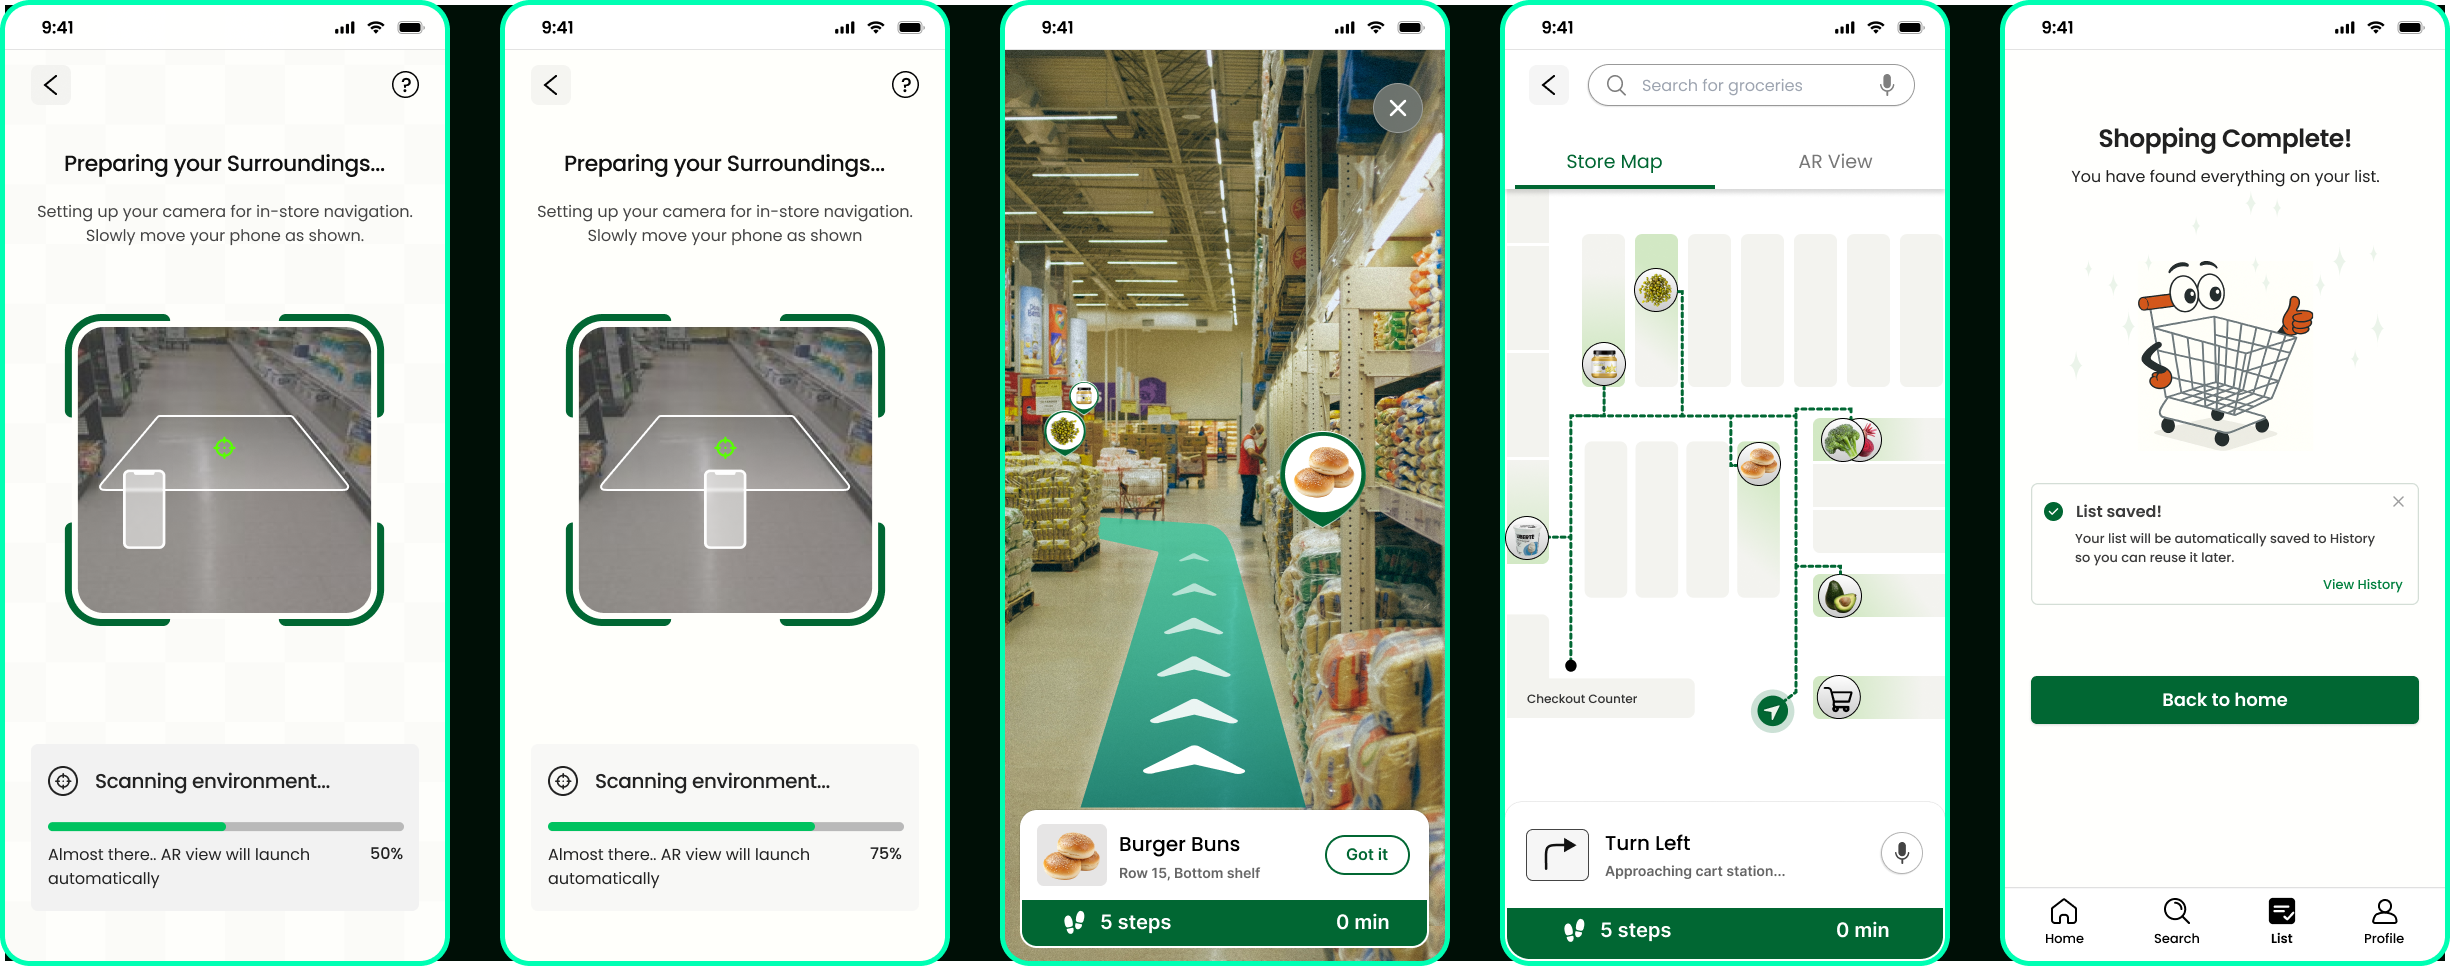
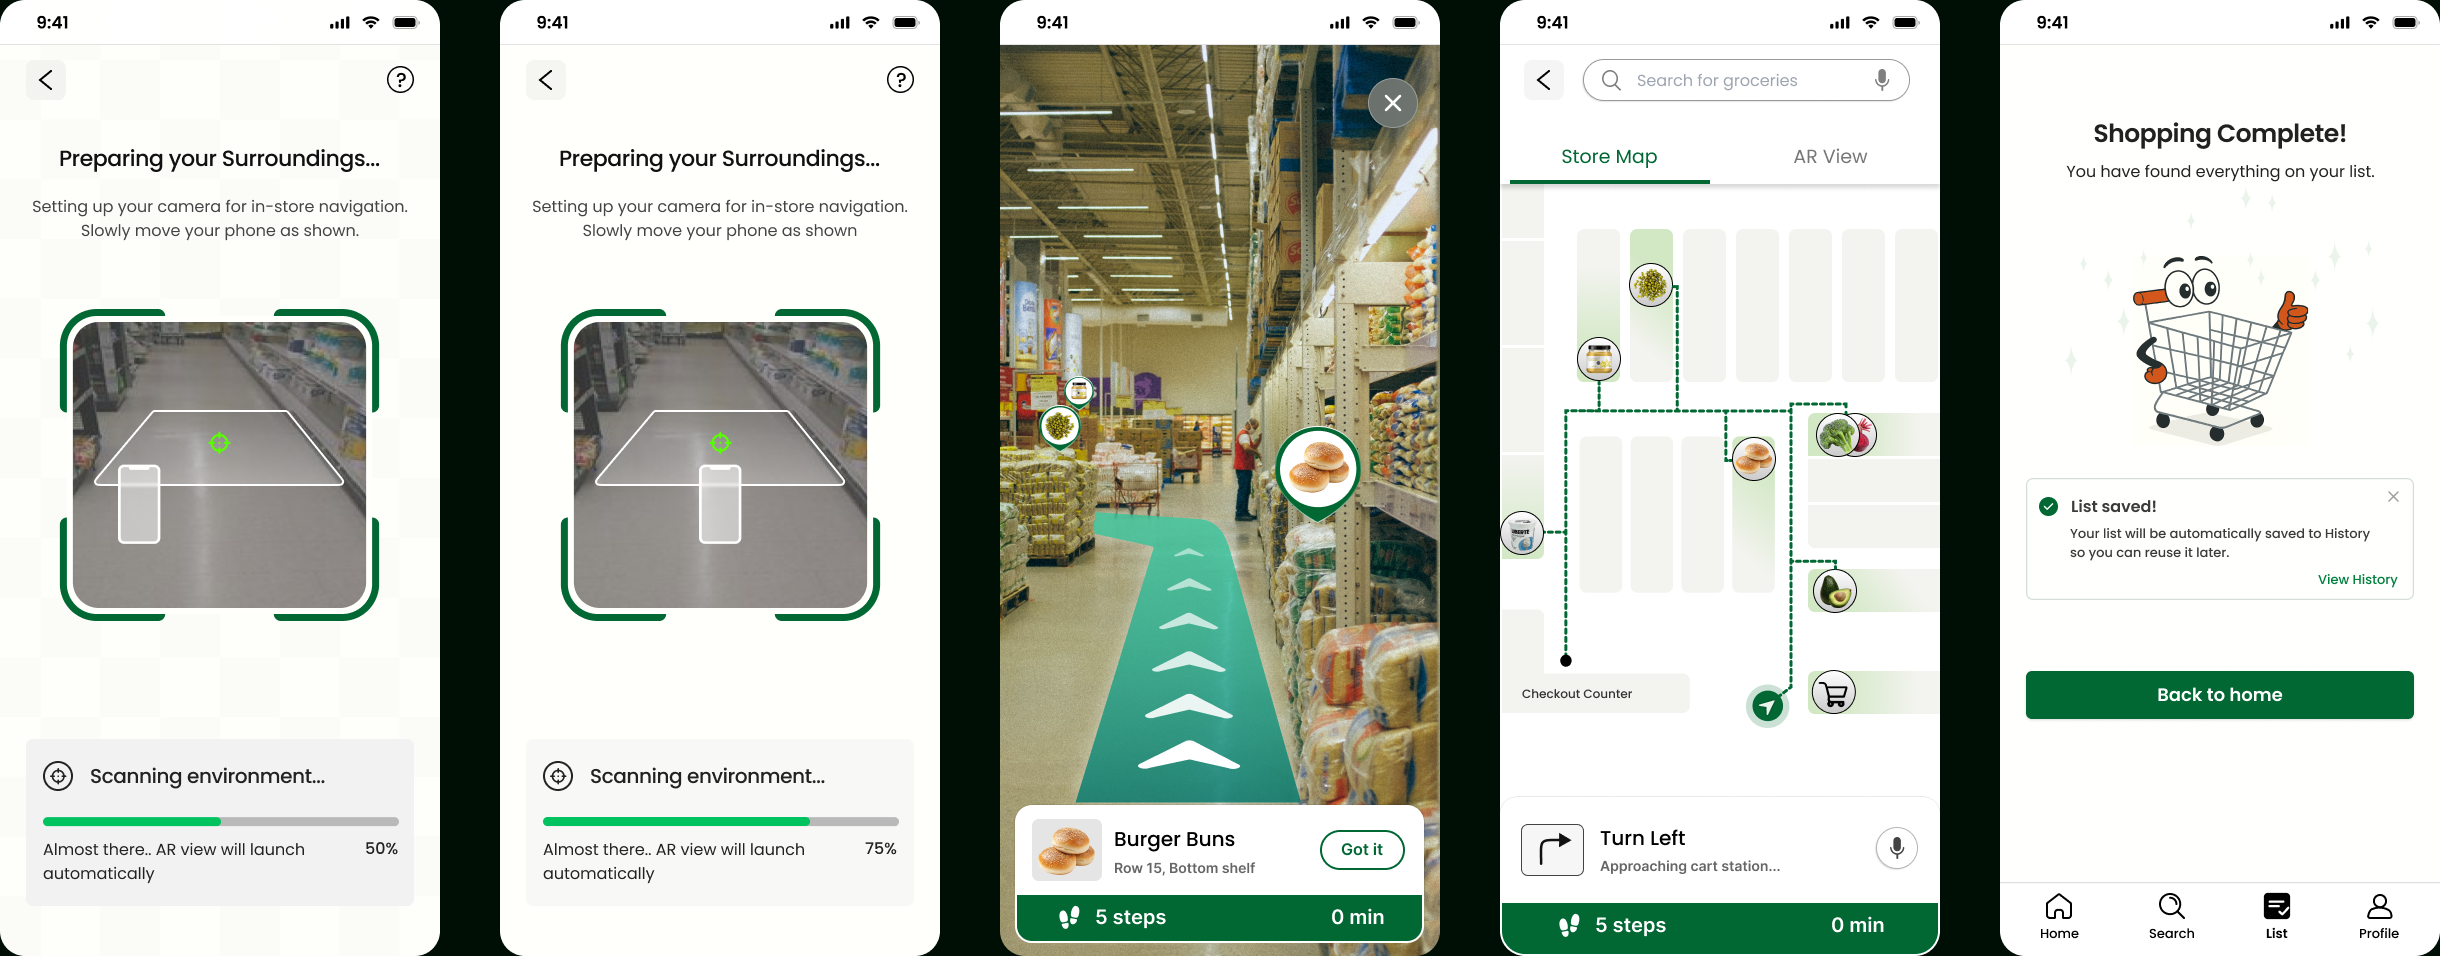
update: modified multiple files

diff --git a/index.html b/index.html
@@ -268,7 +268,7 @@ These insights gave me a good starting point and helped shape the next step: tal
     
     <p class="bottom-spacing">Based on these interactions, I mapped out key shopper traits and patterns.</p>
 
-<div class="col-13 col-md-9 col-lg-7 mx-auto text-center" style="margin-top: 4rem; margin-bottom: 6rem;">
+<div class="col-16 col-md-14 col-lg-12 mx-auto text-center" style="margin-top: 4rem; margin-bottom: 6rem;">
   <img class="img-fluid rounded" src="images/research diagram.png" style="max-width: 75%;" alt="alt="Dashboard visualizing key insights from user research at local grocery store>
   <p class="small fst-italic mt-2" style="color: #aaa;">Dashboard visualizing key findings from User-Research at grocery store</p>
 </div>
@@ -303,7 +303,7 @@ These insights gave me a good starting point and helped shape the next step: tal
   These groupings helped me uncover deeper user needs, I might’ve missed otherwise.
 </p>
 
-<div class="col-15 col-md-10 col-lg-7 mx-auto text-center mb-5 mt-5">
+<div class="col-16 col-md-14 col-lg-12 mx-auto text-center mb-5 mt-5">
   <img src="images/affinity map.png" alt="Affinity Map" class="img-fluid rounded" style="max-width: 90%;">
 </div>
 
@@ -353,20 +353,6 @@ These insights gave me a good starting point and helped shape the next step: tal
 <p class="mt-4 mb-5">
   Instead of treating personas as a separate step, I built them alongside the empathy maps, letting the insights naturally evolve into relatable human stories. While creating empathy maps, I had already shaped three distinct character types to represent the core user groups I observed during my research. Summarizing these into distinct personas became a key step that shapes everything ahead. A quick reference point to ensure that every design decision I make later truly reflects the people I’m designing for.That means, throughout the design process, I can always come back to these characters to double-check: “Am I designing with them in mind?”
 </p>
-
-<!-- Personas 
-<div class="d-flex justify-content-start mb-4">
-  <img src="persona 1.png" alt="Persona 1" class="img-fluid rounded" style="max-width: 80%;">
-</div>
-
-<div class="d-flex justify-content-end mb-4">
-  <img src="persona 2.png" alt="Persona 2" class="img-fluid rounded" style="max-width: 80%;">
-</div>
-
-<div class="d-flex justify-content-start mb-4">
-  <img src="persona 3.png" alt="Persona 3" class="img-fluid rounded" style="max-width: 80%;">
-</div>
--->
 
 <!-- Personas Slider -->
 <div class="slider-container" id="personaSlider" 
@@ -457,8 +443,8 @@ After brainstorming, I started structuring those ideas into a task tree. I ident
     With these sections in mind, I began sketching a flow to map how a user would move through each goal. I then mapped out the tasks under each goal to understand the step-by-step journey.
     </p>
 
-<div class="col-20 col-md-18 col-lg-16 mx-auto text-center mt-5 mb-4">
-  <img src="images/task flow.png" alt="Task tree flow" class="img-fluid rounded" style="max-width: 90%;">
+<div class="col-20 col-md-19 col-lg-18 mx-auto text-center mt-5 mb-4">
+  <img src="images/task flow.png" alt="Task tree flow" class="img-fluid">
 </div>
 
 <p class=" mb-5">

diff --git a/style.css b/style.css
@@ -584,8 +584,6 @@ body {
 .design-images img {
   width: 100%;
   max-width: 200px;
-  border: 2px solid #00ffb3;
-  border-radius: 8px;
 }
 
 @media (max-width: 768px) {
@@ -638,8 +636,6 @@ body {
 .iteration-image img {
   width: 100%;
   max-width: 350px;
-  border: 2px solid #00ffb3;
-  border-radius: 8px;
 }
 
 .design-text {
